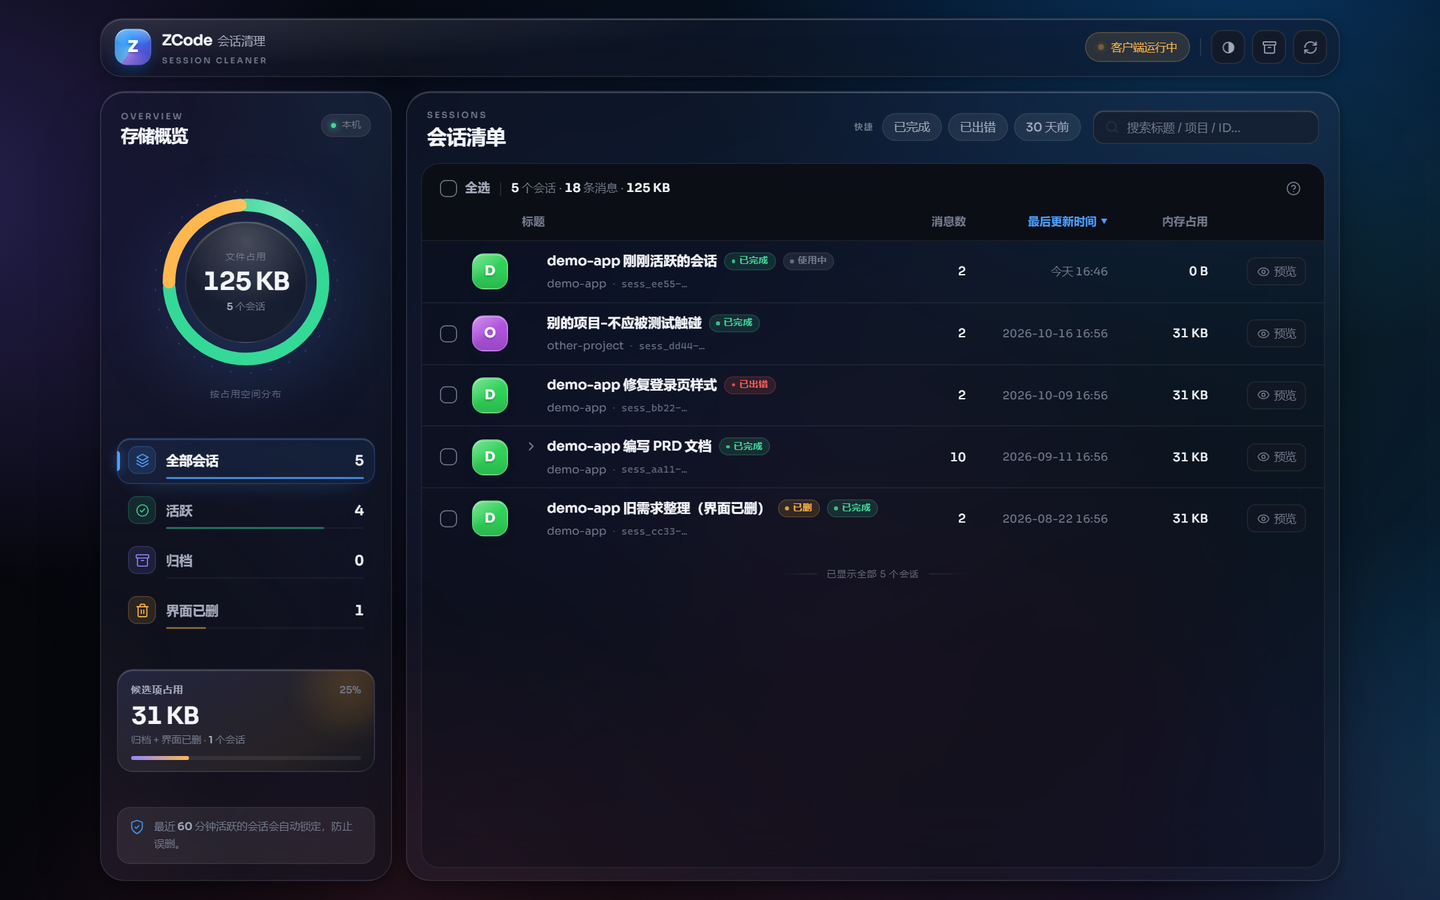
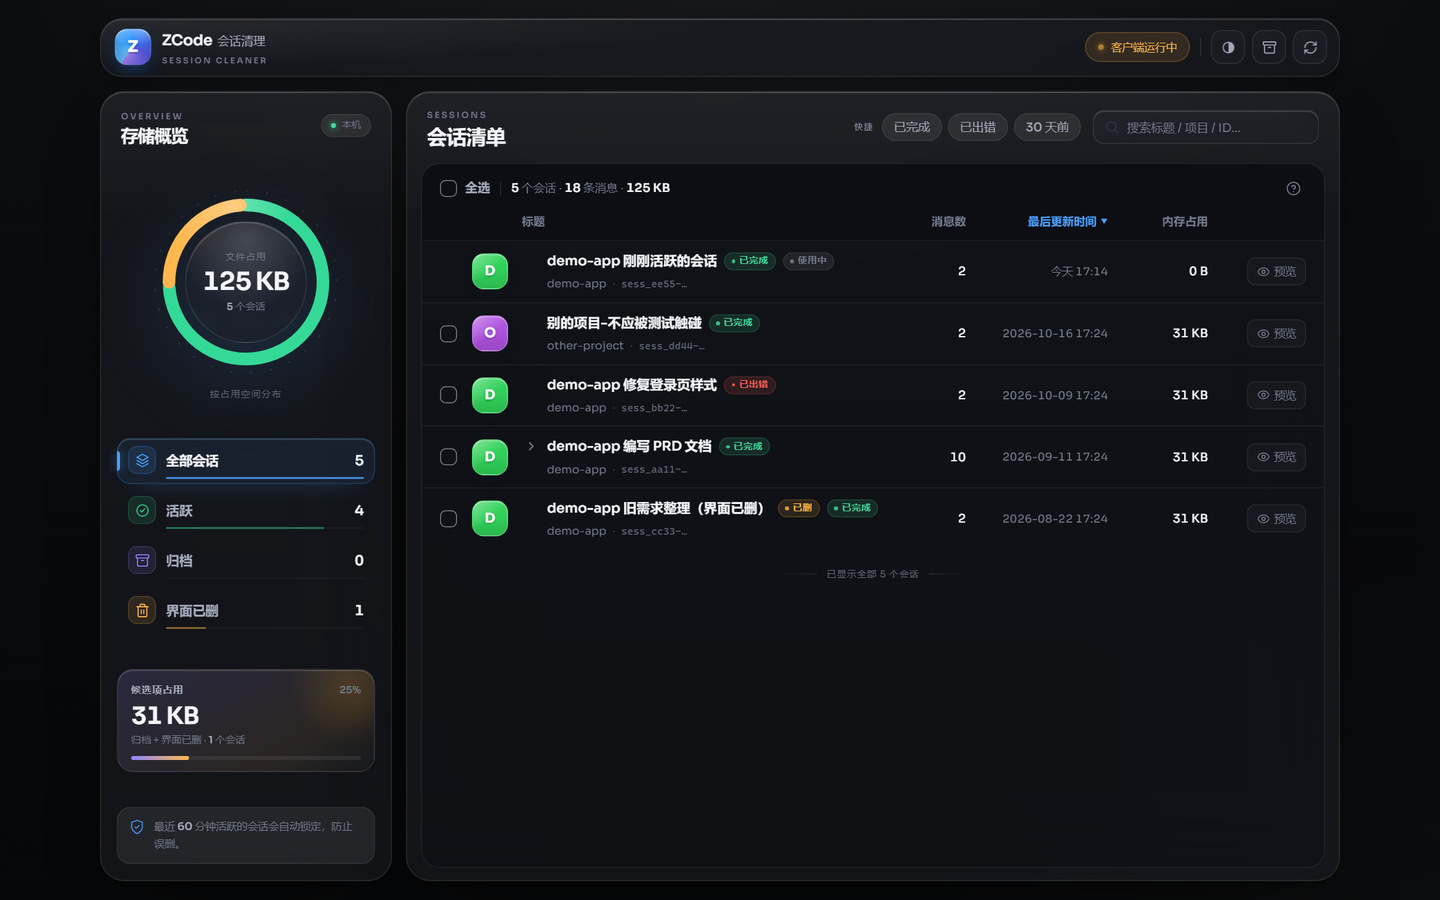
视觉基调调整为中性灰阶：磨砂玻璃降饱和、柔化阴影，弹窗改 --dialog-bg 底色；刷新 README 截图；备份列表测试改为等待元素出现

diff --git a/gui/app.css b/gui/app.css
@@ -14,7 +14,7 @@
 :root {
   color-scheme: light;
 
-  --bg: #dfe6f1;
+  --bg: #eceef2;
   --text: #12141b;
   --text-2: #555c6d;
   --text-3: #747c8e;
@@ -42,25 +42,26 @@
   --ring-archived: #6a61f3;
   --ring-deleted: #eb9f25;
 
-  --glass: rgba(255, 255, 255, .32);
-  --glass-strong: rgba(255, 255, 255, .55);
-  --glass-solid: rgba(248, 250, 254, .96);
-  --glass-hover: rgba(255, 255, 255, .64);
-  --glass-border: rgba(255, 255, 255, .80);
-  --glass-highlight: rgba(255, 255, 255, .96);
-  --glass-blur: blur(30px) saturate(1.85);
+  --glass: rgba(242, 244, 248, .46);
+  --glass-strong: rgba(247, 248, 251, .62);
+  --glass-solid: rgba(249, 250, 253, .97);
+  --glass-hover: rgba(251, 252, 254, .72);
+  --glass-border: rgba(255, 255, 255, .58);
+  --glass-highlight: rgba(255, 255, 255, .92);
+  --glass-blur: blur(36px) saturate(1.25);
 
   --chip: rgba(110, 120, 145, .10);
-  --list-bg: rgba(255, 255, 255, .08);
-  --head-bg: #f7fafe;
-  --row-hover: rgba(255, 255, 255, .52);
+  --list-bg: rgba(247, 249, 252, .18);
+  --head-bg: #f5f7fa;
+  --row-hover: rgba(255, 255, 255, .50);
   --row-selected: rgba(10, 125, 248, .075);
-  --core-bg: rgba(255, 255, 255, .40);
-  --vault-glow: rgba(10, 125, 248, .18);
+  --core-bg: rgba(246, 248, 251, .48);
+  --vault-glow: rgba(10, 125, 248, .12);
+  --dialog-bg: rgba(248, 249, 252, .86);
 
-  --shadow: 0 30px 70px -34px rgba(24, 40, 80, .48), 0 2px 10px rgba(24, 40, 80, .05);
-  --shadow-sm: 0 10px 26px -16px rgba(24, 40, 80, .45);
-  --shadow-lg: 0 40px 120px -34px rgba(15, 28, 55, .45);
+  --shadow: 0 28px 70px -42px rgba(30, 42, 65, .36), 0 1px 3px rgba(30, 42, 65, .04);
+  --shadow-sm: 0 10px 30px -22px rgba(30, 42, 65, .32);
+  --shadow-lg: 0 40px 100px -44px rgba(15, 28, 55, .32);
 
   --scroll: rgba(80, 90, 110, .26);
   --scroll-hover: rgba(80, 90, 110, .42);
@@ -84,7 +85,7 @@
 html[data-theme="dark"] {
   color-scheme: dark;
 
-  --bg: #06070c;
+  --bg: #08090c;
   --text: #f3f5fa;
   --text-2: #a4aabb;
   --text-3: #747b8d;
@@ -112,25 +113,26 @@ html[data-theme="dark"] {
   --ring-archived: #8e87ff;
   --ring-deleted: #ffb84d;
 
-  --glass: rgba(22, 25, 36, .56);
-  --glass-strong: rgba(27, 31, 44, .72);
-  --glass-solid: rgba(21, 24, 34, .97);
-  --glass-hover: rgba(37, 42, 58, .80);
-  --glass-border: rgba(255, 255, 255, .11);
-  --glass-highlight: rgba(255, 255, 255, .20);
-  --glass-blur: blur(30px) saturate(1.6);
+  --glass: rgba(28, 30, 38, .56);
+  --glass-strong: rgba(32, 35, 44, .68);
+  --glass-solid: rgba(25, 28, 36, .97);
+  --glass-hover: rgba(44, 47, 58, .78);
+  --glass-border: rgba(255, 255, 255, .10);
+  --glass-highlight: rgba(255, 255, 255, .18);
+  --glass-blur: blur(38px) saturate(1.2);
 
   --chip: rgba(255, 255, 255, .075);
-  --list-bg: rgba(8, 10, 16, .30);
-  --head-bg: #0b0e15;
+  --list-bg: rgba(10, 12, 17, .34);
+  --head-bg: #0c0e14;
   --row-hover: rgba(255, 255, 255, .045);
   --row-selected: rgba(75, 159, 255, .11);
-  --core-bg: rgba(24, 28, 40, .74);
-  --vault-glow: rgba(75, 159, 255, .24);
+  --core-bg: rgba(30, 33, 42, .72);
+  --vault-glow: rgba(75, 159, 255, .20);
+  --dialog-bg: rgba(26, 29, 38, .88);
 
-  --shadow: 0 30px 80px -34px rgba(0, 0, 0, .8), 0 2px 10px rgba(0, 0, 0, .3);
-  --shadow-sm: 0 12px 30px -18px rgba(0, 0, 0, .85);
-  --shadow-lg: 0 50px 140px -34px rgba(0, 0, 0, .9);
+  --shadow: 0 30px 80px -40px rgba(0, 0, 0, .72), 0 2px 10px rgba(0, 0, 0, .25);
+  --shadow-sm: 0 12px 30px -22px rgba(0, 0, 0, .8);
+  --shadow-lg: 0 40px 120px -40px rgba(0, 0, 0, .82);
 
   --scroll: rgba(255, 255, 255, .15);
   --scroll-hover: rgba(255, 255, 255, .28);
@@ -156,7 +158,7 @@ body {
   transition: background-color .35s ease, color .35s ease;
 }
 
-/* 氛围底色：极光色斑 + 缓慢流动的彩色光晕，给玻璃提供可透的层次 */
+/* 中性灰阶底：只保留轻微明暗层次和颗粒，不使用彩色色斑 */
 body::before {
   content: "";
   position: fixed;
@@ -164,53 +166,17 @@ body::before {
   z-index: -2;
   pointer-events: none;
   background:
-    radial-gradient(1150px 820px at 58% 26%, rgba(100, 160, 255, .28), transparent 64%),
-    radial-gradient(900px 700px at 38% 48%, rgba(124, 99, 255, .14), transparent 64%),
-    radial-gradient(900px 680px at 88% -8%, rgba(10, 132, 255, .30), transparent 62%),
-    radial-gradient(820px 640px at -6% 22%, rgba(124, 99, 255, .26), transparent 62%),
-    radial-gradient(800px 620px at 32% 112%, rgba(255, 92, 142, .18), transparent 64%),
-    radial-gradient(560px 480px at 102% 90%, rgba(45, 212, 191, .16), transparent 62%);
+    radial-gradient(1400px 900px at 50% -18%, rgba(255, 255, 255, .85), transparent 62%),
+    radial-gradient(900px 700px at 100% 108%, rgba(196, 200, 208, .35), transparent 62%),
+    linear-gradient(180deg, #f1f2f5 0%, #e7e9ee 100%);
 }
 html[data-theme="dark"] body::before {
   background:
-    radial-gradient(1150px 820px at 58% 26%, rgba(10, 132, 255, .12), transparent 64%),
-    radial-gradient(900px 700px at 38% 48%, rgba(124, 99, 255, .10), transparent 64%),
-    radial-gradient(900px 680px at 88% -8%, rgba(10, 132, 255, .32), transparent 62%),
-    radial-gradient(820px 640px at -6% 22%, rgba(124, 99, 255, .28), transparent 62%),
-    radial-gradient(800px 620px at 32% 112%, rgba(255, 92, 142, .17), transparent 64%),
-    radial-gradient(560px 480px at 102% 90%, rgba(45, 212, 191, .12), transparent 62%);
+    radial-gradient(1200px 800px at 50% -15%, rgba(255, 255, 255, .055), transparent 62%),
+    radial-gradient(900px 700px at 100% 108%, rgba(255, 255, 255, .025), transparent 62%),
+    linear-gradient(180deg, #0c0d10 0%, #060708 100%);
 }
-body::after {
-  content: "";
-  position: fixed;
-  z-index: -1;
-  width: 78vmax;
-  height: 78vmax;
-  right: -26vmax;
-  top: 10vh;
-  border-radius: 50%;
-  pointer-events: none;
-  background: conic-gradient(from 90deg,
-    rgba(10, 132, 255, .16),
-    rgba(124, 99, 255, .13),
-    rgba(255, 92, 142, .11),
-    rgba(45, 212, 191, .09),
-    rgba(10, 132, 255, .16));
-  filter: blur(84px);
-  opacity: .9;
-  will-change: transform;
-  animation: ambient-drift 52s ease-in-out infinite alternate;
-}
-html[data-theme="dark"] body::after {
-  background: conic-gradient(from 90deg,
-    rgba(10, 132, 255, .24),
-    rgba(124, 99, 255, .20),
-    rgba(255, 92, 142, .13),
-    rgba(45, 212, 191, .10),
-    rgba(10, 132, 255, .24));
-  opacity: .8;
-}
-/* 细颗粒，避免大面积渐变出现塑料感 */
+/* 细颗粒，避免大面积灰阶出现塑料感 */
 .grain {
   position: fixed;
   inset: 0;
@@ -270,10 +236,10 @@ svg { display: inline-block; vertical-align: middle; }
   inset: 0;
   border-radius: inherit;
   pointer-events: none;
-  background: radial-gradient(120% 200% at 0% 0%, rgba(255, 255, 255, .36), transparent 42%);
-  opacity: .7;
+  background: radial-gradient(120% 200% at 0% 0%, rgba(255, 255, 255, .32), transparent 42%);
+  opacity: .55;
 }
-html[data-theme="dark"] .topbar::before { opacity: .3; }
+html[data-theme="dark"] .topbar::before { opacity: .24; }
 .topbar::after {
   content: "";
   position: absolute;
@@ -434,9 +400,7 @@ html[data-theme="dark"] .pill.bad { border-color: rgba(255, 181, 69, .22); }
   border-radius: var(--radius);
   border: 1px solid var(--glass-border);
   background:
-    radial-gradient(110% 85% at 100% -10%, rgba(105, 160, 255, .20), transparent 62%),
-    radial-gradient(80% 65% at 12% -8%, rgba(150, 140, 255, .09), transparent 60%),
-    radial-gradient(100% 80% at -10% 110%, rgba(255, 140, 195, .13), transparent 62%),
+    linear-gradient(180deg, rgba(255, 255, 255, .16), transparent 16%),
     var(--glass);
   box-shadow: var(--shadow), inset 0 1px 0 var(--glass-highlight);
   backdrop-filter: var(--glass-blur);
@@ -446,8 +410,7 @@ html[data-theme="dark"] .pill.bad { border-color: rgba(255, 181, 69, .22); }
 html[data-theme="dark"] .overview,
 html[data-theme="dark"] .main-panel {
   background:
-    radial-gradient(120% 90% at 100% -10%, rgba(75, 159, 255, .10), transparent 60%),
-    radial-gradient(100% 80% at -10% 110%, rgba(255, 120, 170, .07), transparent 60%),
+    linear-gradient(180deg, rgba(255, 255, 255, .04), transparent 16%),
     var(--glass);
 }
 .overview::before,
@@ -608,8 +571,8 @@ html[data-theme="dark"] .ring-sheen { opacity: .32; }
   box-shadow:
     inset 0 1px 0 var(--glass-highlight),
     inset 0 -14px 26px rgba(10, 25, 55, .06);
-  backdrop-filter: blur(10px) saturate(1.4);
-  -webkit-backdrop-filter: blur(10px) saturate(1.4);
+  backdrop-filter: blur(12px) saturate(1.2);
+  -webkit-backdrop-filter: blur(12px) saturate(1.2);
 }
 .vault-label {
   font-size: 9px;
@@ -940,8 +903,8 @@ html[data-theme="dark"] .reclaim {
   font-size: 12px;
   font-family: inherit;
   outline: none;
-  backdrop-filter: blur(16px) saturate(1.5);
-  -webkit-backdrop-filter: blur(16px) saturate(1.5);
+  backdrop-filter: blur(18px) saturate(1.2);
+  -webkit-backdrop-filter: blur(18px) saturate(1.2);
   box-shadow: inset 0 1px 0 var(--glass-highlight);
   transition: width .25s ease, background .2s, border-color .2s, box-shadow .2s;
 }
@@ -1502,13 +1465,22 @@ input[type="checkbox"]:focus-visible {
   align-items: center;
   justify-content: center;
   padding: 28px;
-  background: radial-gradient(120% 90% at 50% 0%, rgba(18, 30, 60, .08), rgba(10, 16, 30, .38));
-  backdrop-filter: blur(18px) saturate(1.3);
-  -webkit-backdrop-filter: blur(18px) saturate(1.3);
+  background: radial-gradient(120% 90% at 50% 0%, rgba(247, 248, 252, .30), rgba(226, 230, 237, .54));
+  backdrop-filter: blur(24px) saturate(1.15);
+  -webkit-backdrop-filter: blur(24px) saturate(1.15);
   animation: fade-in .2s ease both;
 }
 html[data-theme="dark"] .modal {
-  background: radial-gradient(120% 90% at 50% 0%, rgba(0, 0, 0, .3), rgba(0, 0, 0, .62));
+  background: radial-gradient(120% 90% at 50% 0%, rgba(18, 20, 27, .38), rgba(4, 6, 10, .64));
+}
+/* 删除确认与进度：保留更强的聚焦暗化 */
+#modal-confirm.modal,
+#modal-progress.modal {
+  background: radial-gradient(120% 90% at 50% 0%, rgba(242, 244, 248, .44), rgba(216, 220, 228, .58));
+}
+html[data-theme="dark"] #modal-confirm.modal,
+html[data-theme="dark"] #modal-progress.modal {
+  background: radial-gradient(120% 90% at 50% 0%, rgba(16, 18, 24, .52), rgba(3, 4, 8, .72));
 }
 .modal-box {
   position: relative;
@@ -1517,7 +1489,7 @@ html[data-theme="dark"] .modal {
   max-height: calc(100vh - 56px);
   border-radius: 24px;
   border: 1px solid var(--glass-border);
-  background: var(--glass-strong);
+  background: var(--dialog-bg);
   box-shadow: var(--shadow-lg), inset 0 1px 0 var(--glass-highlight);
   backdrop-filter: var(--glass-blur);
   -webkit-backdrop-filter: var(--glass-blur);
@@ -1938,10 +1910,6 @@ details.reasoning .bubble {
   0%, 100% { opacity: 1; }
   50% { opacity: .35; }
 }
-@keyframes ambient-drift {
-  from { transform: translate3d(0, 0, 0) rotate(0deg) scale(1); }
-  to { transform: translate3d(-10vw, -8vh, 0) rotate(28deg) scale(1.16); }
-}
 
 /* ============ 响应式 ============ */
 @media (max-width: 1120px) {
@@ -2091,5 +2059,4 @@ details.reasoning .bubble {
     animation-iteration-count: 1 !important;
     transition-duration: .001ms !important;
   }
-  body::after { animation: none; }
 }

diff --git a/tests/gui_test.py b/tests/gui_test.py
@@ -290,7 +290,8 @@ def main():
         print("\n[10] 备份恢复")
         page.click("#btn-backups")
         page.wait_for_selector("#modal-backups:not([hidden])")
-        page.wait_for_timeout(400)
+        page.wait_for_selector(".backup-ts", timeout=8000)
+        page.wait_for_timeout(150)
         items = page.locator(".backup-item")
         check("备份列表 ≥1 条", items.count() >= 1)
         check("备份含两个库", "cli-db.sqlite" in items.first.text_content())

diff --git a/README.md b/README.md
@@ -23,7 +23,7 @@ python gui_server.py --open    # 打开 http://127.0.0.1:8765，--open 会自动
 - 每种状态徽章的含义界面上有图例，悬停徽章和作用域按钮也有提示（比如「已删」= 客户端软删除过，数据其实还在磁盘上）
 - 删除是彻底的，见下文「每个会话删除时会发生什么」；删完出报告：成功几个、删了多少条消息、释放多少空间、VACUUM 结果、日志清洗了多少处、备份在哪个时间戳（或本次未备份）
 - 删除前默认把两个数据库（含 WAL/SHM）备份到工具目录的 `.zcode-cleaner-backup/<时间戳>/`，删错了可以从「备份与恢复」面板一键还原；确认框里可以取消勾选备份，跳过备份直接删（删完无法恢复，界面上有红字警告）
-- 界面有浅色 / 深色 / 跟随系统三种主题；极光背景 + 液态玻璃面板，半透明分层、颗粒质感与存储环上的缓慢掠光，数字使用自托管 Sora 展示字体
+- 界面有浅色 / 深色 / 跟随系统三种主题；中性灰阶背景 + 中性磨砂玻璃，半透明分层、颗粒质感与存储环上的缓慢掠光，数字使用自托管 Sora 展示字体
 
 ![浅色主题（双栏布局 + 存储环）](docs/screenshot-light.png)
 ![深色主题](docs/screenshot-dark.png)
